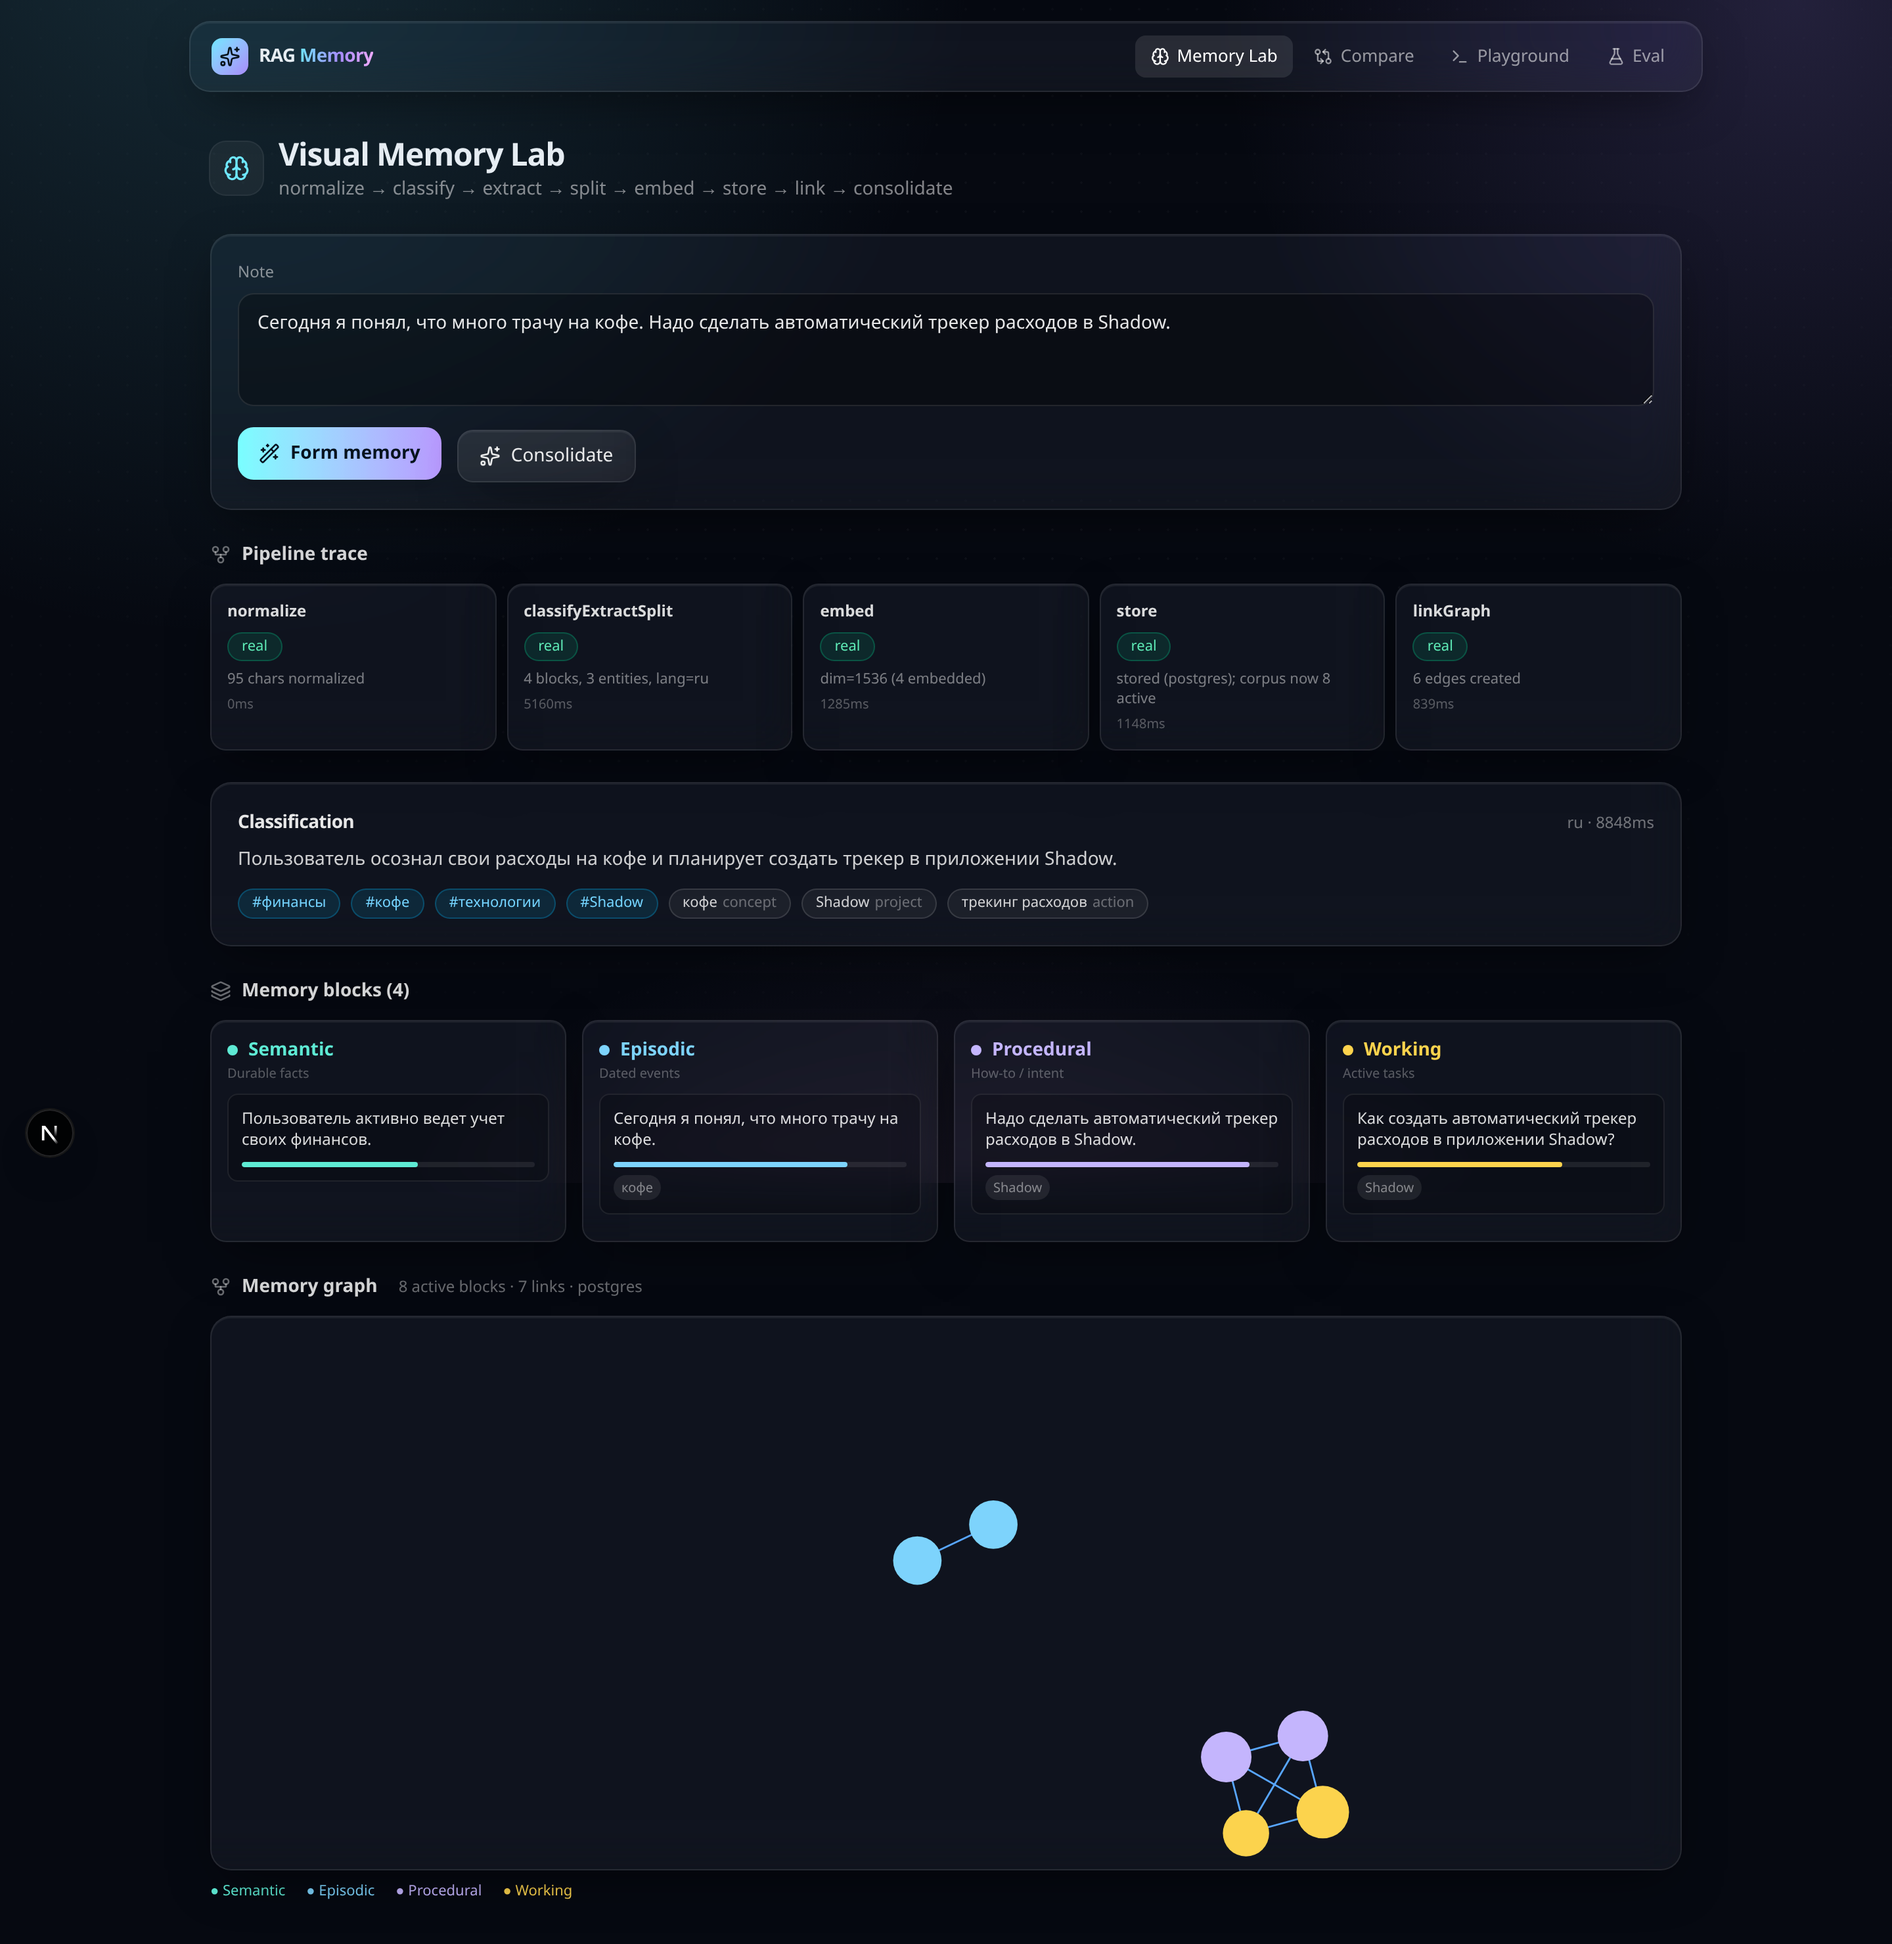
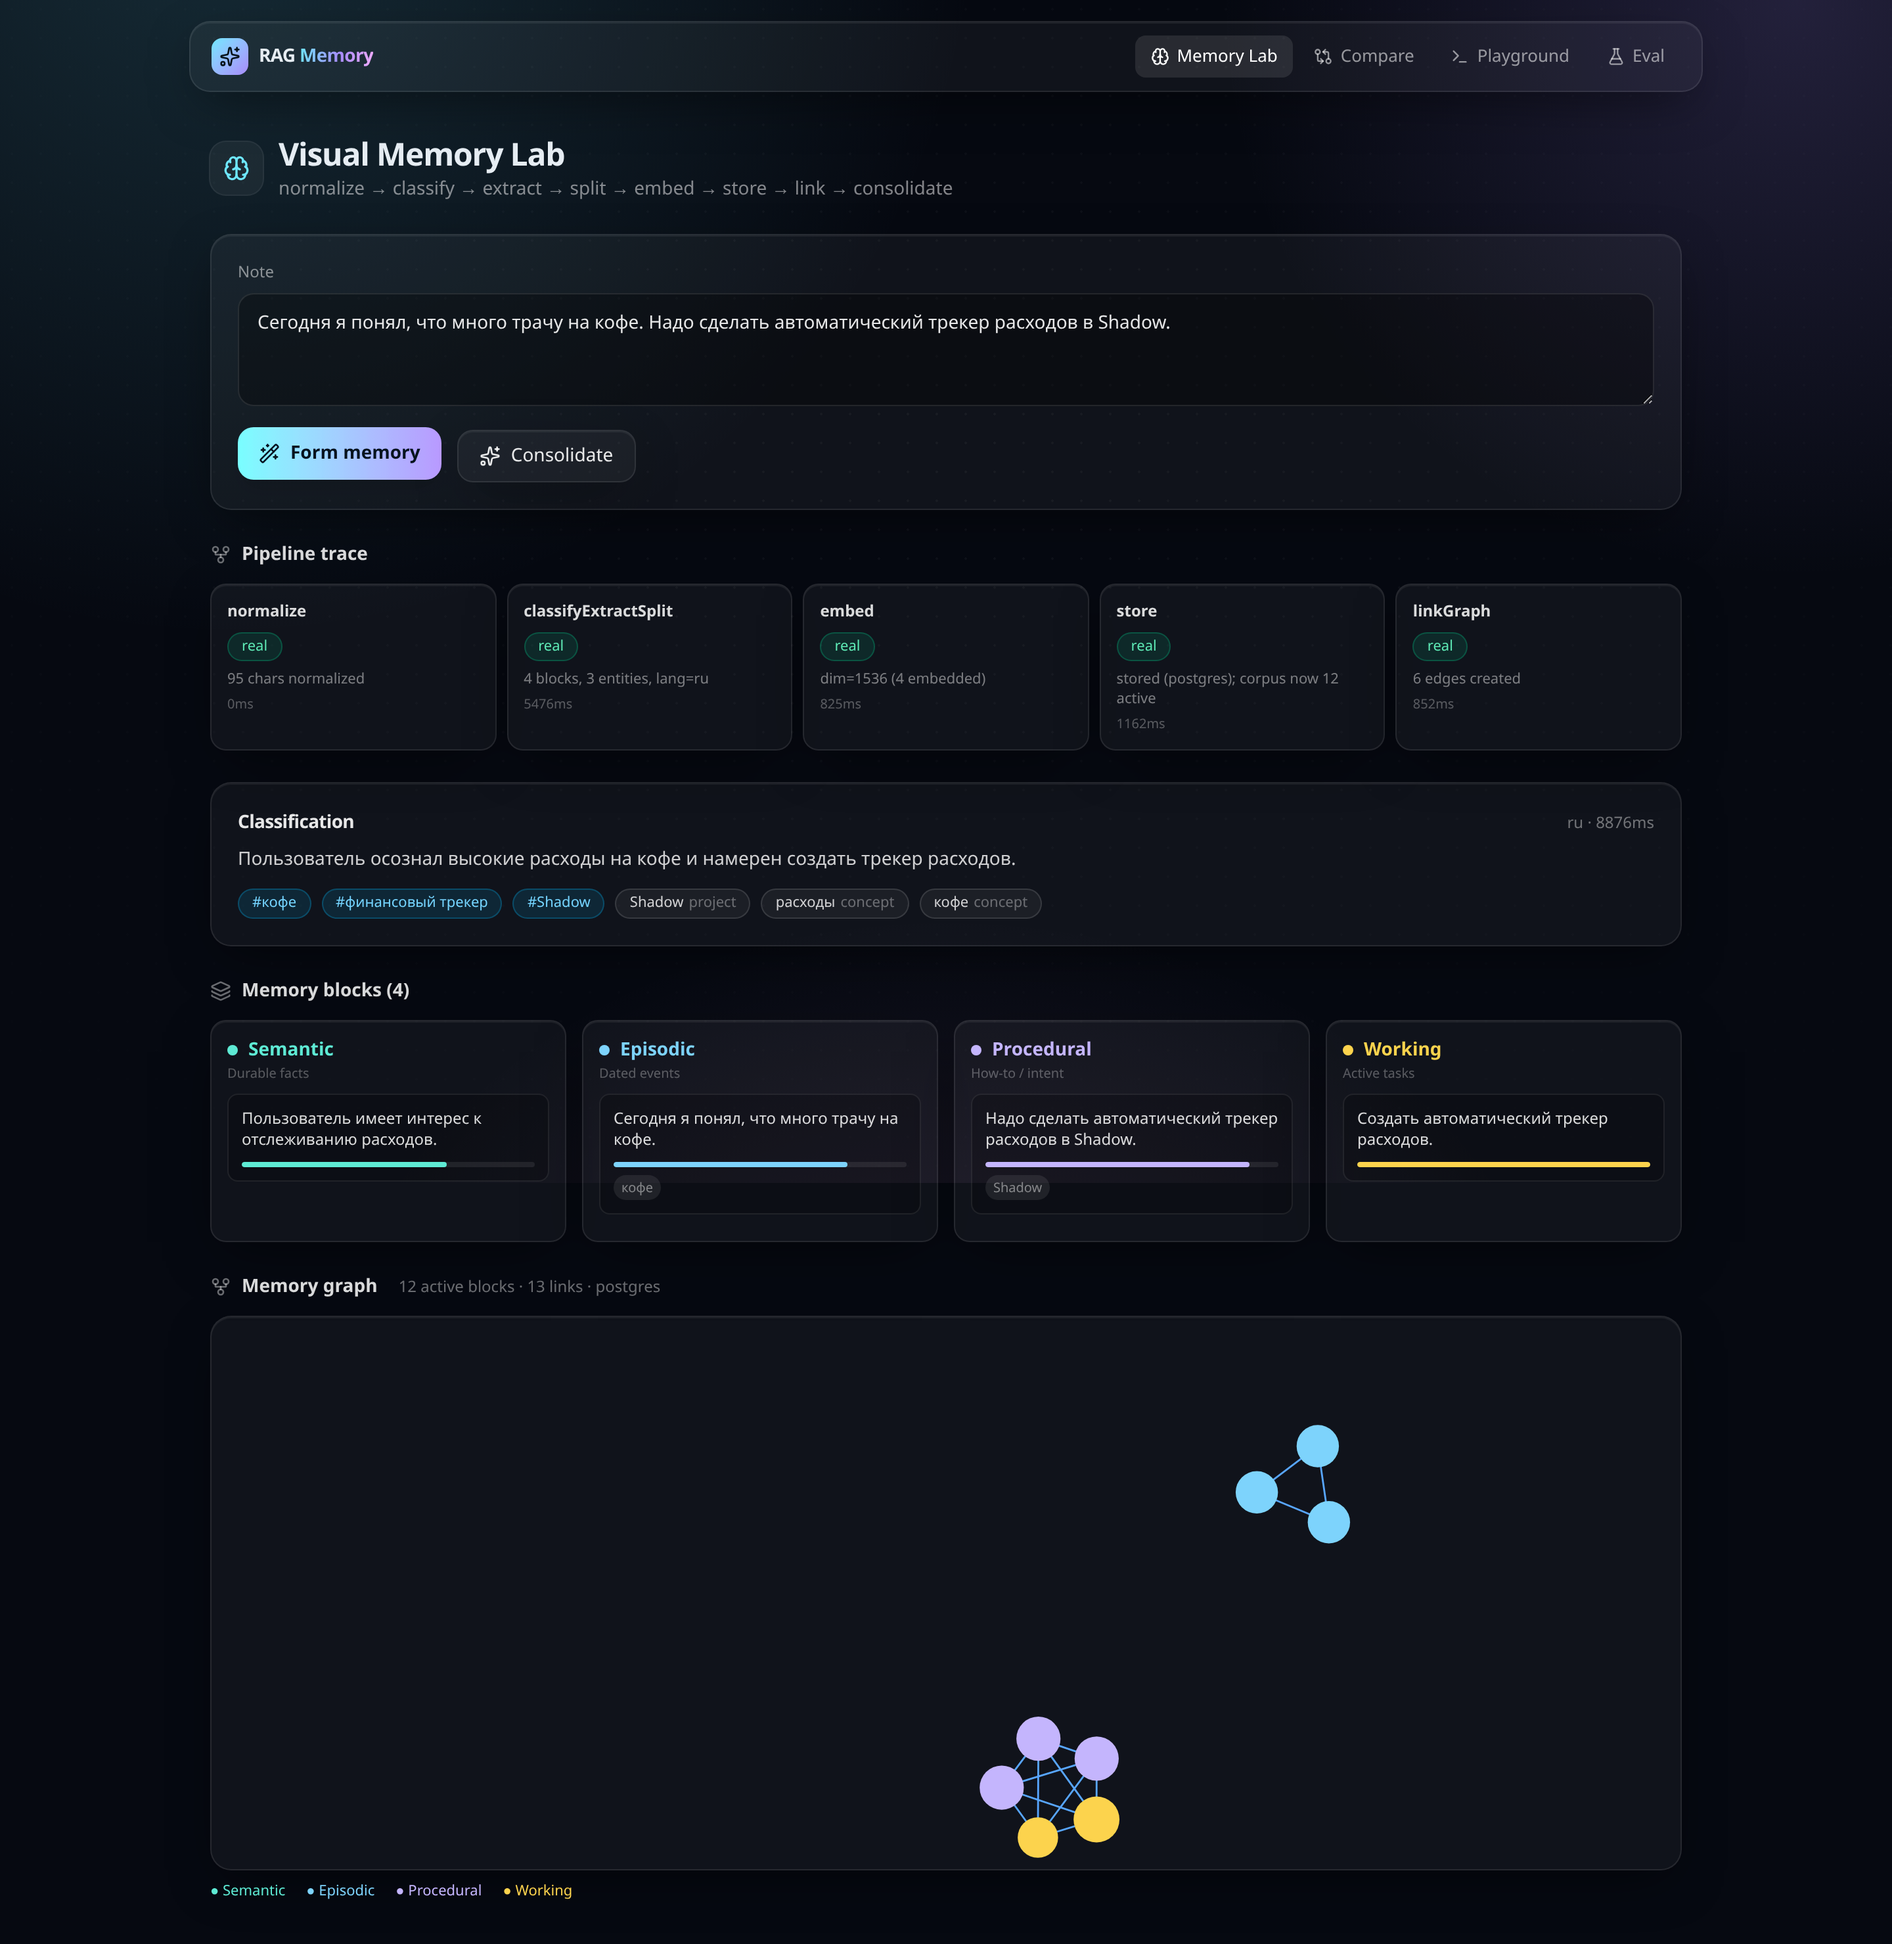
docs(rag): merge README (selling hook + deep concepts) + refresh screenshots
Combine concise selling intro (live demo, status table, hero shot) with
deeper sections (ExplainableRun, provider modes, routing, memory levels,
mermaid architecture, 90-sec demo, repo tree). Recapture all 5 surface
screenshots against a clean prod build with Postgres-backed memory graph.

diff --git a/README.md b/README.md
@@ -124,6 +124,65 @@ Apply the DB schema once: `psql "$DATABASE_URL" -f supabase/migrations/0001_memo
 
 ---
 
+## Core concepts
+
+### ExplainableRun
+
+Every framework run returns one structured object — the same source of truth for the UI and the developer:
+
+```ts
+ExplainableRun = {
+  runId, input, route,
+  providerStatus,        // which providers were real / stub / fallback
+  graphSteps,            // which nodes ran, with per-step timing
+  retrievedDocuments,
+  retrievedMemories,
+  finalContext,          // how the final prompt was assembled
+  answer,
+  evaluations,           // faithfulness / relevance scores + warnings
+  trace,
+  failureModes,          // named failures, not just numbers
+  debug, meta
+}
+```
+
+Instead of hiding internals behind a chat response, the engine exposes the route taken, which providers were real, which nodes ran, what was retrieved, how the prompt was built, and what failed.
+
+### Honest provider modes
+
+| Mode | Meaning |
+|---|---|
+| `real` | Real provider initialized and used |
+| `stub` | Local deterministic provider used intentionally (no key) |
+| `fallback` | Real mode requested, but env/config failed → local provider used |
+
+The app works without secrets, but never pretends a local stub is a production provider.
+
+### RAG + memory routing
+
+The classifier routes the same input through different strategies:
+
+| Mode | Use case |
+|---|---|
+| `rag` | Use documents / knowledge base |
+| `memory` | Use prior user / agent memory |
+| `long_context` | Larger direct context when retrieval is not enough |
+| `hybrid` | Combine document retrieval + memory retrieval |
+| `auto` | Let the classifier choose |
+
+### Memory block levels
+
+The Visual Memory Lab splits a note into typed long-term memory blocks:
+
+| Level | Meaning |
+|---|---|
+| `working` | immediate current context |
+| `episodic` | what happened |
+| `semantic` | durable facts / knowledge |
+| `procedural` | learned process / how-to |
+
+---
+
 ## Tests
 
 - 9 test suites under `src/framework/__tests__/` + `src/__tests__/` (engine, judge, memory formation/retrieval/consolidation, provider status, run store) — run with `npm test`.
@@ -134,27 +193,43 @@ Apply the DB schema once: `psql "$DATABASE_URL" -f supabase/migrations/0001_memo
 
 ## Architecture
 
+```mermaid
+flowchart LR
+  subgraph UI["Next.js UI"]
+    Home["/"]
+    Memory["/memory"]
+    Compare["/compare"]
+    Playground["/playground"]
+  end
+  subgraph API["API Routes"]
+    Run["framework-run"]
+    Form["memory/form"]
+    Graph["memory/graph"]
+  end
+  subgraph Engine["Framework Engine"]
+    Container["Env-driven DI"]
+    LangGraph["LangGraph StateGraph"]
+    Explain["ExplainableRun builder"]
+  end
+  subgraph Providers["Provider ports (real / stub)"]
+    Rag["RAG · LlamaIndex / local"]
+    Mem["Memory · Mem0 / local"]
+    LLM["LLM · OpenAI / local"]
+    Eval["Eval · judge / heuristic"]
+    Obs["Obs · Langfuse / local"]
+  end
+  subgraph Store["Persistence"]
+    InMem["in-memory"]
+    PG["Postgres + pgvector"]
+  end
+  UI --> API --> Engine
+  Container --> Providers
+  Engine --> LangGraph --> Rag & Mem & LLM & Eval & Obs
+  LangGraph --> Explain
+  Mem --> InMem & PG
 ```
-POST /api/rag-memory/framework-run
-        │
-        ▼
-FrameworkEngine.run(input)
-        │
-        ▼
-LangGraph StateGraph
-    START
-      → classifyIntentNode      (langgraph, real)
-      → retrieveDocumentsNode   (llamaindex / local-rag)
-      → retrieveMemoriesNode    (mem0 / local-memory)
-      → buildContextNode        (langgraph, real)
-      → generateAnswerNode      (openai / local-llm)
-      → evaluateAnswerNode      (judge / Ragas-shaped stub)
-      → buildExplainableRunNode (synthesises failure modes)
-    END
-        │
-        ▼
-ExplainableRun JSON → /playground (debug UI)
-```
+
+The LangGraph state machine runs: `classifyIntent → retrieveDocuments → retrieveMemories → buildContext → generateAnswer → evaluateAnswer → buildExplainableRun`. Each node emits a `GraphStep`, so the response includes a step-by-step execution trace.
 
 More detail: [`architecture.md`](architecture.md) · [`roadmap.md`](roadmap.md) · [`product-brief.md`](product-brief.md) · [`ENGINEERING-NOTES.md`](ENGINEERING-NOTES.md) · [`THEORY.md`](THEORY.md).
 
@@ -220,3 +295,58 @@ Returns an `ExplainableRun`: route decision, `providerStatus`, ordered `graphSte
 ## Why I built this
 
 RAG is the most common pattern in production AI apps and the hardest to debug: the config search space is huge, the eval signal is weak, and the cost picture is usually invisible until launch. This project is a working argument that those three problems are a tooling problem — and that the right tool makes comparison, not generation, the first-class surface. The honesty contract (real vs stub, always reported) is the part I am most deliberate about: a demo that hides its stubs is how you "win the demo, lose the launch."
+
+---
+
+## 90-second demo path
+
+1. Open `/memory`, paste a messy note about a project, blocker, or repeated pattern.
+2. Run memory formation → inspect extracted entities, typed memory blocks, graph links, consolidation.
+3. Open `/compare`, run the same query across multiple configs → compare quality, cost, latency, failure modes.
+4. Open `/playground` → inspect the raw `ExplainableRun`; check `providerStatus` to prove which providers are real, stub, or fallback.
+
+---
+
+## Repository structure
+
+```txt
+rag-memory-playground/
+├── app/                          # Next.js routes + API routes
+│   ├── api/rag-memory/           # framework-run, compare, memory, sources, runs
+│   ├── memory/                   # Visual Memory Lab
+│   ├── compare/                  # side-by-side comparison
+│   ├── eval/                     # golden eval suite
+│   └── playground/               # raw ExplainableRun debug UI
+├── src/framework/                # framework-first engine
+│   ├── engine.ts · container.ts · types.ts
+│   ├── workflow/                 # LangGraph graph + 7 nodes
+│   ├── ports/ · adapters/        # provider interfaces + real/local impls
+│   ├── memory/ · knowledge/      # formation, persistence, retrieval
+│   └── __tests__/                # contract tests
+├── src/core/ · src/mvp/          # legacy Phase 1 simulator
+├── supabase/migrations/          # Postgres + pgvector schema
+├── e2e/                          # Playwright tests
+├── scripts/                      # demos + screenshot capture
+└── architecture.md · roadmap.md · product-brief.md · THEORY.md · GUIDE.md
+```
+
+---
+
+## What this project demonstrates
+
+Applied AI engineering, specifically: RAG architecture · long-term agent memory · LangGraph orchestration · provider abstraction + dependency injection · real/stub/fallback transparency · explainable run traces · side-by-side pipeline comparison · cost/latency/quality trade-off design · Postgres + pgvector persistence · evaluation-aware product thinking.
+
+## Related docs
+
+| Doc | Purpose |
+|---|---|
+| [`product-brief.md`](product-brief.md) | Vision, problem, personas, differentiation |
+| [`architecture.md`](architecture.md) | System overview and architecture |
+| [`roadmap.md`](roadmap.md) | Build phases and shipped status |
+| [`acceptance-criteria.md`](acceptance-criteria.md) | Gherkin-style acceptance tests |
+| [`GUIDE.md`](GUIDE.md) | Builder-friendly RAG memory guide |
+| [`THEORY.md`](THEORY.md) | Research-backed RAG + memory theory |
+
+---
+
+Built by **Eduard Shatalov** as part of an AI product engineering portfolio. MIT licensed.
